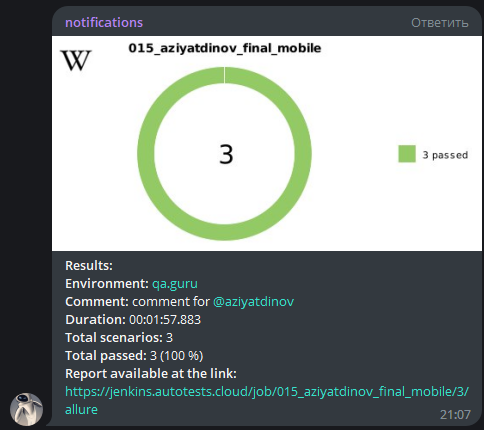
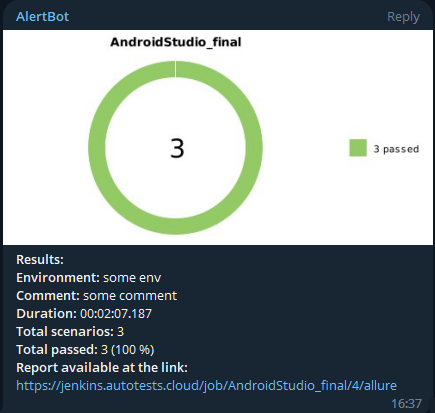
build2

diff --git a/README.md b/README.md
@@ -1,4 +1,4 @@
-# <img width="5%" title="Wikipedia" src="media/logo/Wikipedia.svg"> Дипломный проект по тестирования мобильного приложения [Wikipedia](https://github.com/wikimedia/apps-android-wikipedia/)
+# <img width="5%" title="Wikipedia" src="media/logo/Wikipedia.svg"> Дипломный проект по тестирования мобильного приложения [Wikipedia](https://github.com/ApocalipticLove/AndroidStudio)
 
 ## :open_book: Содержание:
 
@@ -58,22 +58,22 @@ gradle -Denv=mobile clean android (AndroidStudio)
 После выполнения сборки, в блоке <code><strong>*История сборок*</strong></code> напротив номера сборки появится
 значок *Allure Report* и *Allure TestOps* кликнув по которому, откроется страница с сформированным html-отчетом и тестовой документацией.
 
-## <img width="4%" title="Allure Report" src="media/logo/Allure_Report.svg"> Отчет о результатах тестирования в [Allure Report](https://jenkins.autotests.cloud/job/015_aziyatdinov_final_mobile/)
+## <img width="4%" title="Allure Report" src="media/logo/Allure_Report.svg"> Отчет о результатах тестирования в [Allure Report](https://jenkins.autotests.cloud/job/AndroidStudio_final/)
 
 <p align="center">
   <img src="media/screen/jenkins_overview.png" alt="allure-report" width="900">
 </p>
 
-### Основной дашборд
+### Основная страница с графиками
 
 <p align="center">
   <img src="media/screen/dashboards.png" alt="dashboard" width="900">
 </p>
 
-### Список тестов с результатами прогона
+### Тест кейсы в отчете allure
 
 <p align="center">
-  <img src="media/screen/allure-testops-results.png" alt="dashboard" width="900">
+  <img src="media/screen/allure-results.png" alt="dashboard" width="900">
 </p>
 
 ## <img width="4%" title="Telegram" src="media/logo/Telegram.svg"> Уведомления в Telegram
@@ -88,7 +88,7 @@ gradle -Denv=mobile clean android (AndroidStudio)
 
 На данном видео выполняется:
 
-- Проверка добавления нового языка в настройках приложения
+- Проверка и создание списка с добавления в него новой статьи.
 
 
 <p align="center">
